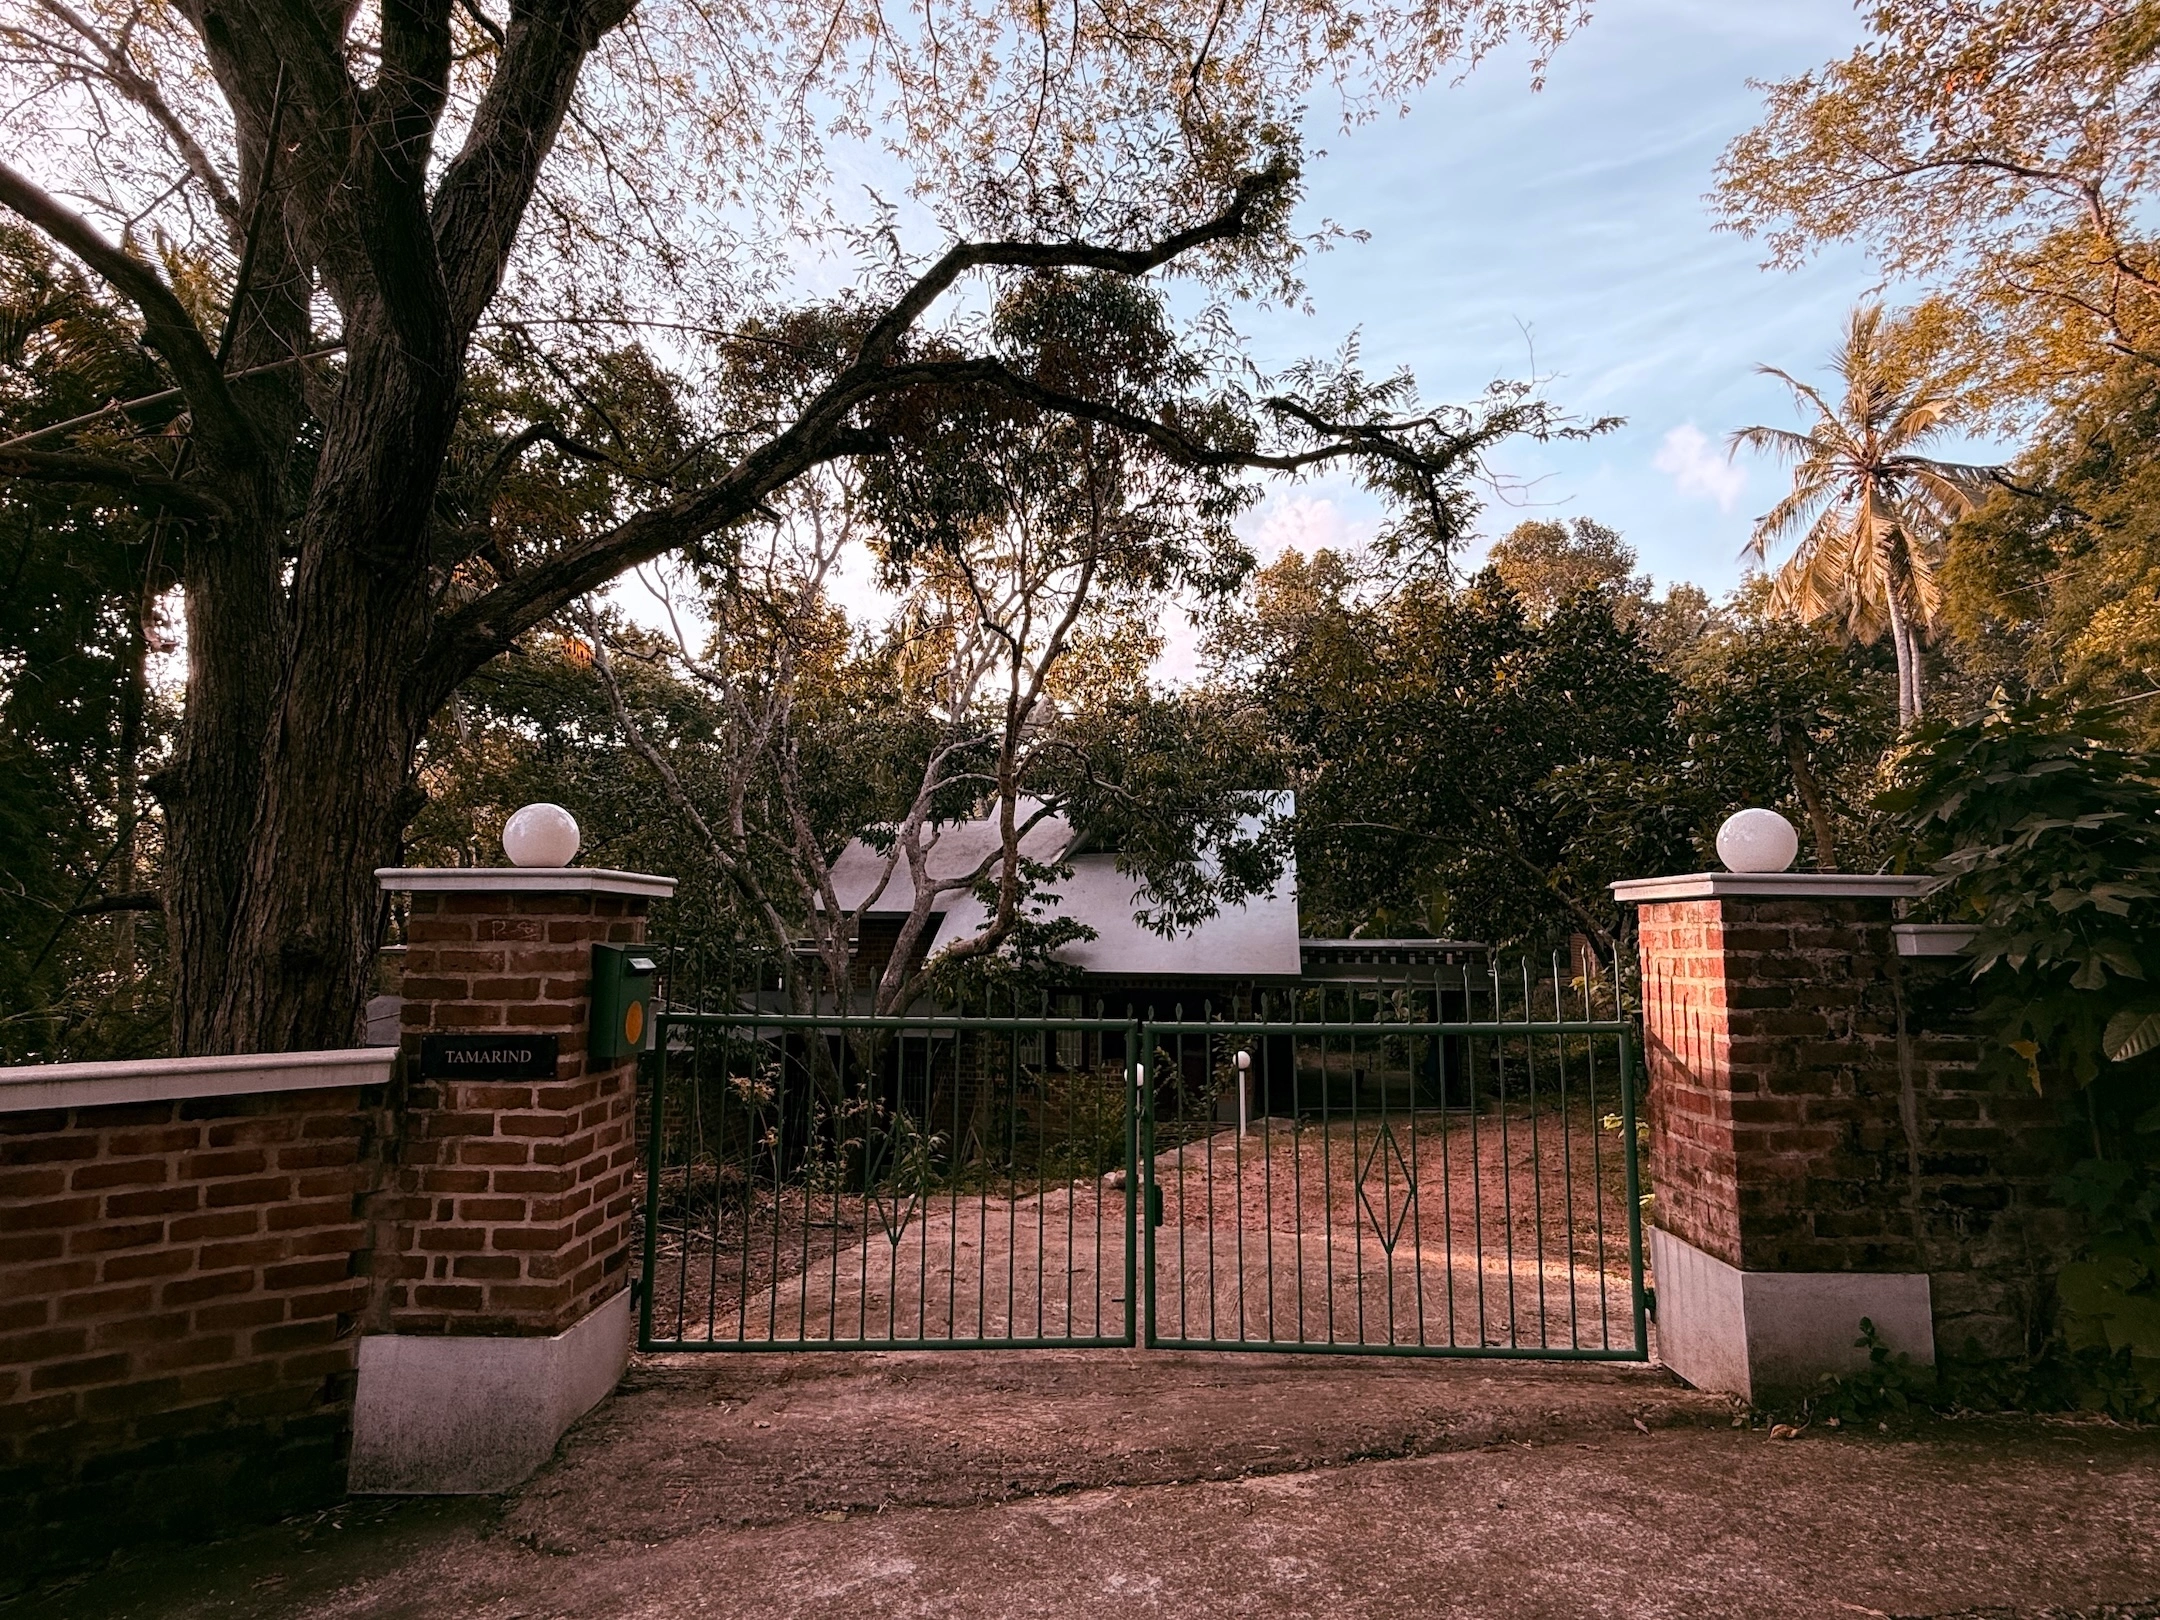
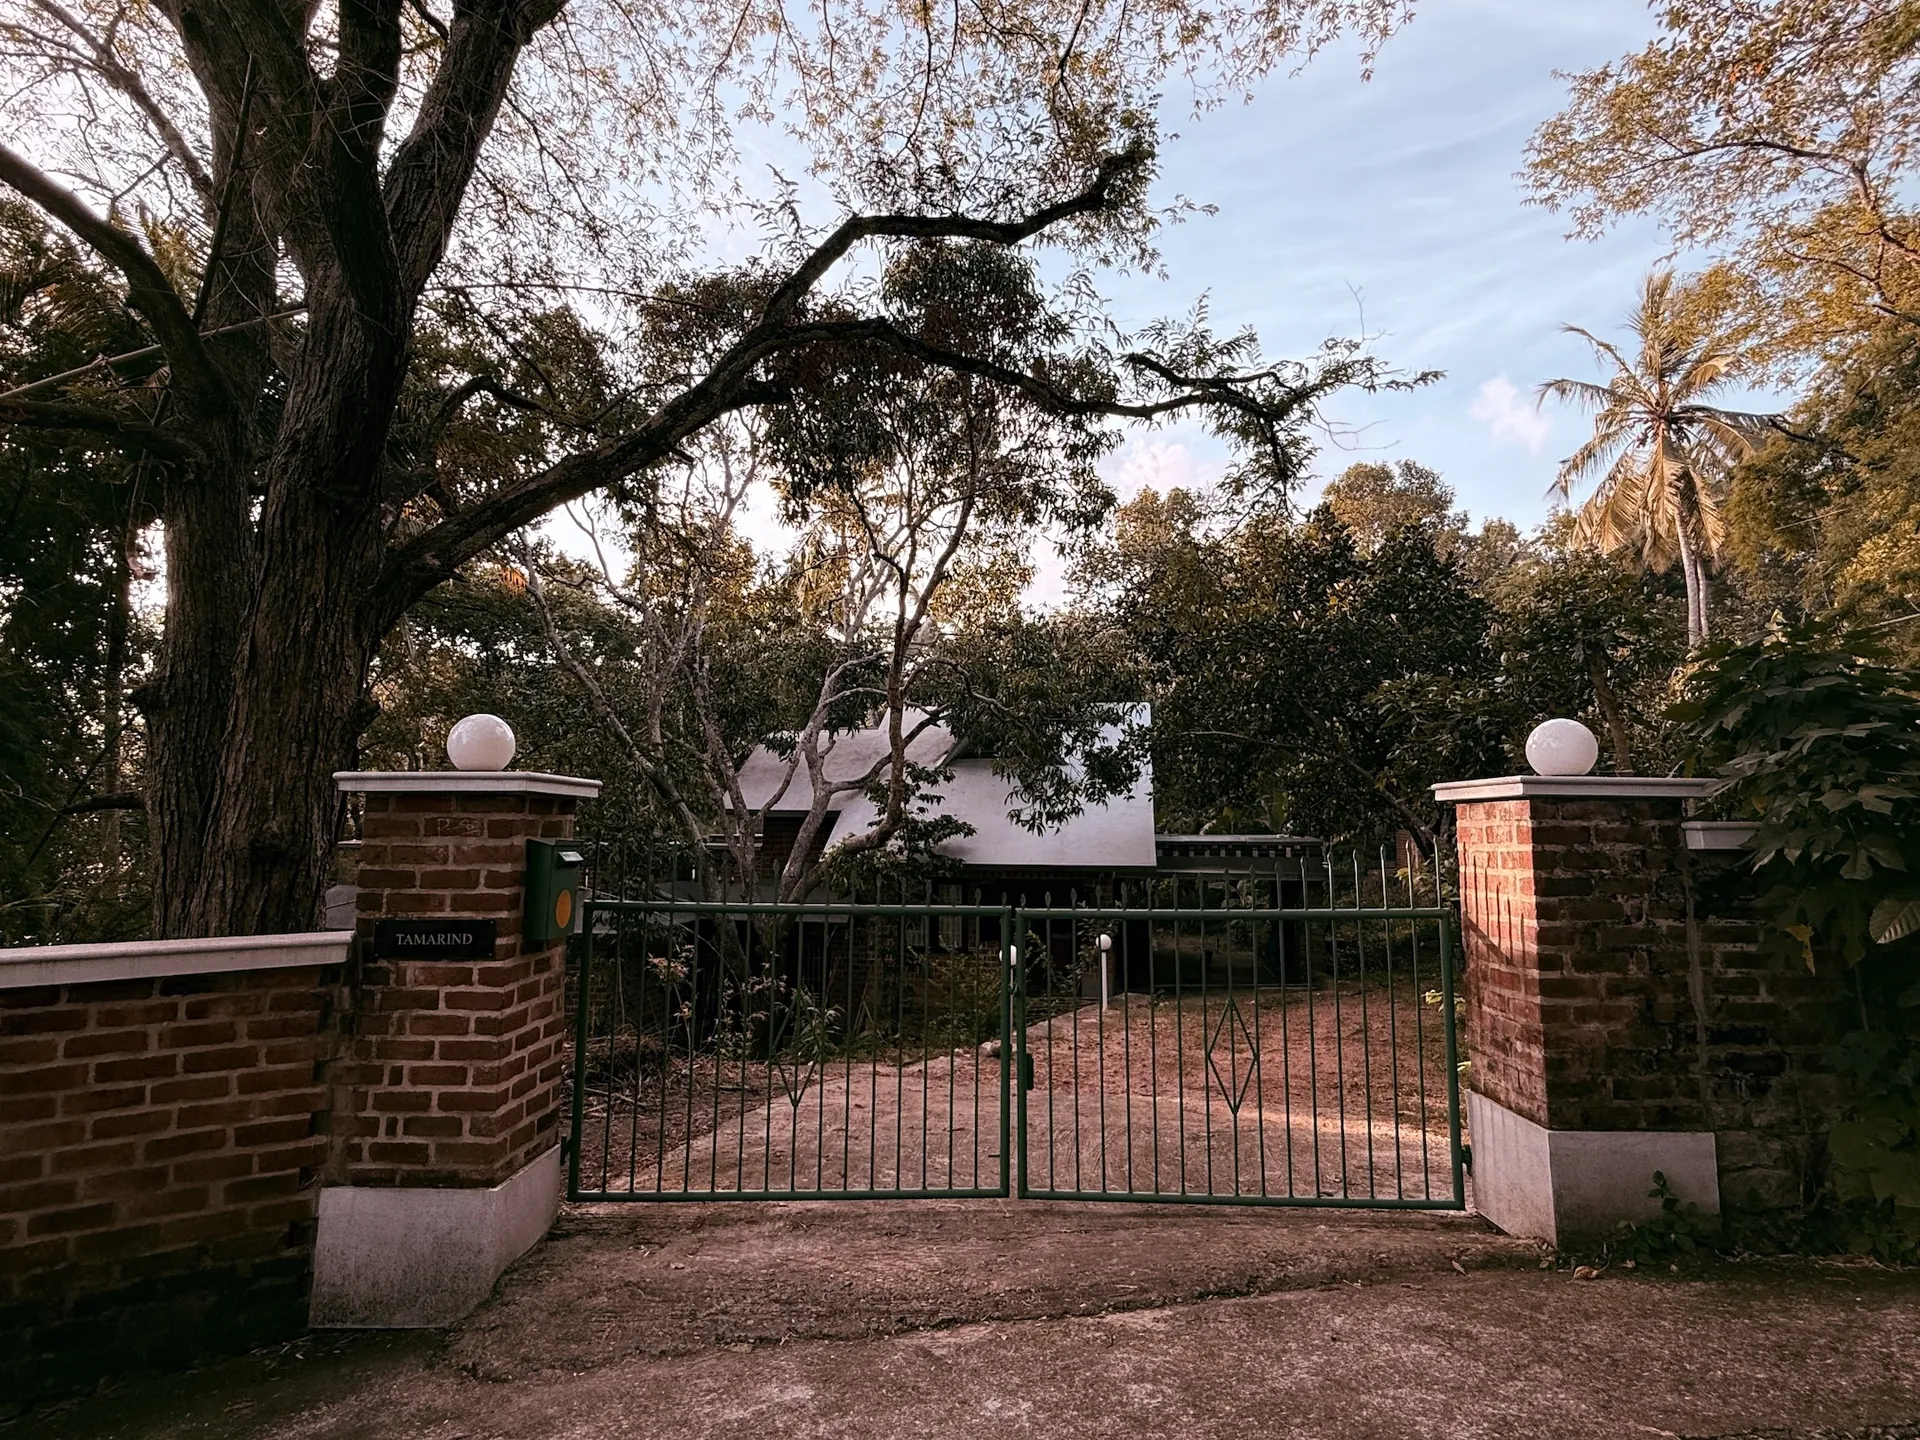
perf(hero): responsive WebP srcset + Bing site verification
- Re-encode hero from a single 1.83MB WebP into a 5-width responsive
  ladder (640/960/1280/1920/2160) at q=78–80. Desktop hero is now
  679 KB (down 63%) and mobile DPR-2/3 phones get a properly sized
  variant instead of an upscaled 640w blob.
- Unify the <picture> into a single srcset and update the preload
  hint to imagesrcset+imagesizes so the LCP image is fetched at the
  correct size before <picture> is parsed.
- Fix hero width/height to the real 4:3 aspect (1920x1440) and the
  og:image:height meta to match — prevents CLS and bad social crops.
- Add decoding="async" to the hero <img>.
- Add BingSiteAuth.xml for Bing Webmaster Tools site verification.

diff --git a/index.html b/index.html
@@ -37,7 +37,7 @@
     <meta property="og:image" content="https://underthetamarind.com/hero-desktop.webp">
     <meta property="og:image:alt" content="Brick farmhouse and gardens at Tamarind, an eco-friendly farm stay in Vilappilsala near Trivandrum, Kerala">
     <meta property="og:image:width" content="1920">
-    <meta property="og:image:height" content="1080">
+    <meta property="og:image:height" content="1440">
     <meta property="og:locale" content="en_IN">
 
     <!-- Twitter Card -->
@@ -52,8 +52,10 @@
     <meta name="google-site-verification" content="f698H4xYCXOoKUJElxFEXmnA6ZuqmY3t3gHjORDhSkk" />
 
     <!-- Performance: responsive hero preload + font preconnects -->
-    <link rel="preload" as="image" href="hero-mobile.webp" media="(max-width: 600px)">
-    <link rel="preload" as="image" href="hero-desktop.webp" media="(min-width: 601px)">
+    <link rel="preload" as="image"
+          imagesrcset="hero-mobile.webp 640w, hero-960.webp 960w, hero-1280.webp 1280w, hero-desktop.webp 1920w, hero-2160.webp 2160w"
+          imagesizes="100vw"
+          fetchpriority="high">
     <link rel="preconnect" href="https://fonts.googleapis.com">
     <link rel="preconnect" href="https://fonts.gstatic.com" crossorigin>
     <link rel="dns-prefetch" href="https://www.googletagmanager.com">
@@ -1064,13 +1066,19 @@
     <main id="main-content">
    <section class="hero" aria-label="Welcome to Tamarind Farm Stay">
     <picture class="hero-bg">
-        <source media="(max-width: 600px)" srcset="hero-mobile.webp">
-        <source media="(min-width: 601px)" srcset="hero-desktop.webp">
+        <source type="image/webp"
+                srcset="hero-mobile.webp 640w,
+                        hero-960.webp 960w,
+                        hero-1280.webp 1280w,
+                        hero-desktop.webp 1920w,
+                        hero-2160.webp 2160w"
+                sizes="100vw">
         <img src="hero-desktop.webp"
              alt="Brick farmhouse and tropical garden at Tamarind, a Laurie Baker–inspired farm stay in Vilappilsala near Trivandrum, Kerala"
              fetchpriority="high"
              loading="eager"
-             width="1920" height="1080">
+             decoding="async"
+             width="1920" height="1440">
     </picture>
 
     <div class="container fade-up">